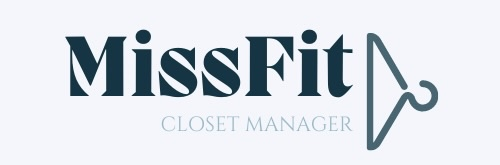
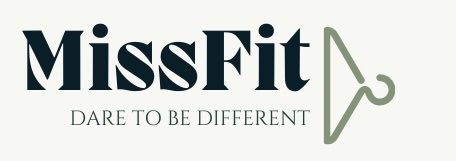
Added more css

Changed region(s): [[0.0307, 0.1242, 0.8904, 0.9317]]

diff --git a/client/src/App.css b/client/src/App.css
@@ -19,13 +19,7 @@
 
 .header-logo{
   width: 50%;
-  background-color: #F3F6FA;
-}
-.App-header{
-  font-size: 65px;
-  text-align: center;
-  color: rgb(86, 78, 206);
-  background-color: rgb(234, 148, 255);
+  background-color: #F7F7F3;
 }
 .login-form{
   text-align: center;
@@ -37,7 +31,7 @@
 }
 .app-description{
   font-family: 'Montserrat', sans-serif;
-  color: #F7F7F2;
+  color: #F7F7F3;
   font-weight: 700;
   padding-top: 5%;
   padding-right: 30%;
@@ -66,11 +60,11 @@
   box-shadow: 0 2px 4px rgba(0, 0, 0, 0.15);
 }
 .welcome{
-  background-color:#F3F6FA;
+  background-color:#F7F7F3;
   font-style: italic;
   color: #012F3D;
   padding-top: 10px;
-  margin-left: 35px;
+  margin-left: 15px;
   font-size: 15px;
 }
 img{
@@ -158,6 +152,14 @@ img{
   margin-top: 8%;
   margin-right: 5%;
   margin-left: 5%;
+}
+.outfit-details{
+  color: #011F28;
+  background-color: #011F28;
+}
+.outfit-details:hover{
+  color: #011F28;
+  text-decoration: none;
 }
 #nickname{
   width: 40%;
@@ -288,12 +290,12 @@ img{
   border-radius: 25px;
   padding: 1%;
   margin-bottom: 1%;
-  color: white;
+  color: rgb(255, 255, 255);
   outline: none;
   transition: all .3s ease-in-out;
 }
 .search-bar::placeholder{
-  color: white;
+  color: rgba(255, 255, 255, 0.616);
 }
 .search-bar:hover{
   background-color: rgb(151, 158, 151);

diff --git a/client/src/About.js b/client/src/About.js
@@ -5,10 +5,12 @@ import WeekContainer from './WeekContainer';
 export default function About() {
   return (
     <div className="about">
-        <h2 className="app-description">MissFit is a personal closet management app that ensures that you're the best dressed in the room.</h2>
+        <h2 className="app-description">MissFit is a closet management app that dares you to be different.</h2>
+        <br/>
         <br/>
         <br/>
         <h5 className="weather-title">Here's this week's weather forecast, choose an outfit accordingly!</h5>
+        <br/>
         <WeekContainer />
     </div>
   )

diff --git a/client/src/Login.js b/client/src/Login.js
@@ -3,7 +3,7 @@ import styled from "styled-components";
 import LoginForm from "./LoginForm";
 import SignUpForm from "./SignUpForm";
 import { Button } from "./styles";
-import Logo from "./images/MissFit-Logo-Blue.png";
+import Logo from "./images/MissFit-Final-Logo.png";
 
 
 
@@ -14,6 +14,8 @@ function Login({ onLogin }) {
     <div className="login-form">
     <div>
       <img src={Logo} alt="Logo" className="logo" />
+      <br/>
+      <br/>
       <br/>
       {showLogin ? (
         <>

diff --git a/client/src/styles/Error.js b/client/src/styles/Error.js
@@ -10,8 +10,8 @@ function Error({ children }) {
 }
 
 const Wrapper = styled.div`
-  color: #011F28;
-  background-color: #A7D2DB;
+  color: #F7F7F3;
+  background-color: #839478;
   border-radius: 6px;
   display: flex;
   padding: 8px;
@@ -21,7 +21,7 @@ const Wrapper = styled.div`
 `;
 
 const Alert = styled.span`
-  background-color: white;
+  background-color: #5A6751;
   height: 30px;
   width: 30px;
   border-radius: 50%;

diff --git a/client/src/NavBar.js b/client/src/NavBar.js
@@ -14,7 +14,7 @@ export default function NavBar({ user, setUser }) {
 
   return (
     <>
-    <nav class="navbar navbar-expand-lg navbar-light" style={{backgroundColor: "#F3F6FA"}}>
+    <nav class="navbar navbar-expand-lg navbar-light" style={{backgroundColor: "#F7F7F3"}}>
     <div class="container-fluid">
       <a class="navbar-brand" href="#">
         <img src={Logo} className="header-logo"/>

diff --git a/client/src/Search.js b/client/src/Search.js
@@ -6,7 +6,7 @@ export default function Search({ searchTerm, setSearchTerm}) {
         <input
         className="search-bar"
         type="text"
-        placeholder="Item description..."
+        placeholder="search . . ."
         value={searchTerm}
         onChange={(e) => setSearchTerm(e.target.value)}
         />

diff --git a/client/src/styles/Label.js b/client/src/styles/Label.js
@@ -1,7 +1,7 @@
 import styled from "styled-components";
 
 const Label = styled.label`
-  color: #02262A;
+  color: #011F28;
   display: block;
   font-size: 1.2rem;
   font-weight: 700;
